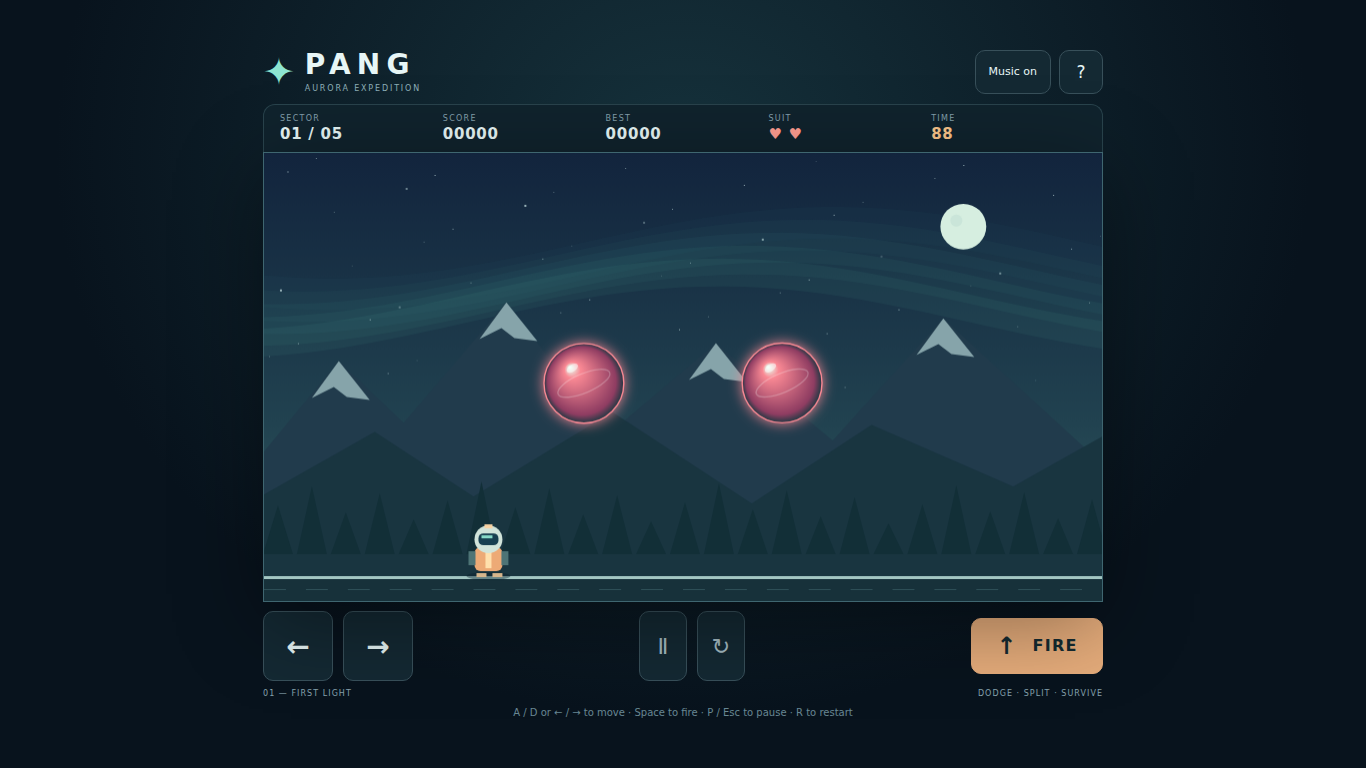
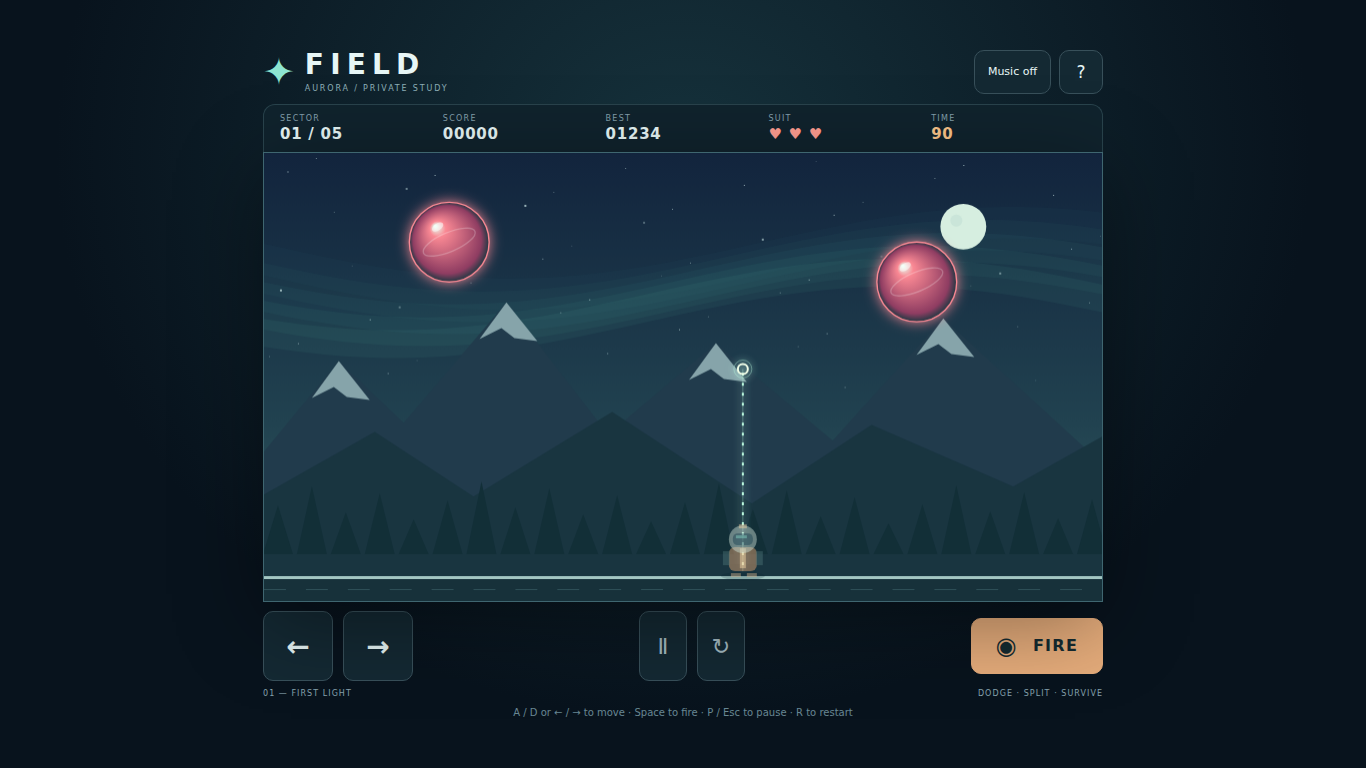
Retain aurora originals with pulse tether and isolated private verification

diff --git a/tests/browser/game.spec.js b/tests/browser/game.spec.js
@@ -1,9 +1,9 @@
 import {test,expect} from '@playwright/test';
 async function boot(page){await page.clock.install({time:new Date('2026-01-01T00:00:00Z')});await page.clock.pauseAt(new Date('2026-01-01T00:00:01Z'));await page.goto('/');}
 async function game(page,fn){return page.evaluate(async src=>{const {game}=await import('/src/app.js');return (new Function('g',src))(game);},fn);}
-for(const [width,height]of [[1920,1080],[1366,768],[768,1024],[390,844],[320,568],[844,390],[568,320],[480,320],[440,320]])test(`responsive DPR arena and accessible controls ${width}x${height}`,async({browser})=>{
- const context=await browser.newContext({viewport:{width,height},deviceScaleFactor:2});const page=await context.newPage();const errors=[];page.on('pageerror',e=>errors.push(e.message));page.on('console',m=>{if(m.type()==='error')errors.push(m.text());});page.on('requestfailed',r=>errors.push(r.url()));page.on('response',r=>{if(r.status()>=400)errors.push(`${r.status()} ${r.url()}`);});
- await page.goto('http://127.0.0.1:4173/');
+for(const [width,height]of [[1920,1080],[1366,768],[768,1024],[390,844],[320,568],[844,390],[568,320],[480,320],[440,320]])test(`responsive DPR arena and accessible controls ${width}x${height}`,async({browser,baseURL})=>{
+ const context=await browser.newContext({baseURL,viewport:{width,height},deviceScaleFactor:2});const page=await context.newPage();const errors=[];page.on('pageerror',e=>errors.push(e.message));page.on('console',m=>{if(m.type()==='error')errors.push(m.text());});page.on('requestfailed',r=>errors.push(r.url()));page.on('response',r=>{if(r.status()>=400)errors.push(`${r.status()} ${r.url()}`);});
+ await page.goto('/');
  const dimensions=await page.locator('canvas').evaluate(c=>({w:c.width,h:c.height,rect:c.getBoundingClientRect().toJSON(),dpr:devicePixelRatio,sw:document.documentElement.scrollWidth,sh:document.documentElement.scrollHeight}));
  expect(dimensions.w).toBe(Math.round(dimensions.rect.width*2));expect(dimensions.h).toBe(Math.round(dimensions.rect.height*2));expect(dimensions.sw).toBeLessThanOrEqual(width);expect(dimensions.sh).toBeLessThanOrEqual(height);
  expect(dimensions.rect.width/dimensions.rect.height).toBeCloseTo(840/450,2);
@@ -16,10 +16,10 @@ for(const [width,height]of [[1920,1080],[1366,768],[768,1024],[390,844],[320,568
  if(width===844){expect(boxes.left.x).toBeLessThan(width/2);expect(boxes.fire.x).toBeGreaterThan(width/2);expect(dimensions.rect.width).toBeGreaterThanOrEqual(520);expect(await page.evaluate(()=>['pause','restart'].every(id=>getComputedStyle(document.getElementById(id)).visibility==='visible'))).toBe(true);}
  await page.getByRole('button',{name:'Start expedition'}).click();await page.waitForTimeout(250);expect(errors).toEqual([]);await context.close();
 });
-for(const [width,height,expectedArenaWidth,expectedShellWidth]of [[390,844,370,370],[844,390,522.6666666667,824]])test(`fresh mobile load sizes the complete arena at ${width}x${height} before resize`,async({browser})=>{
-  const context=await browser.newContext({viewport:{width,height},deviceScaleFactor:2,hasTouch:true,isMobile:true});
+for(const [width,height,expectedArenaWidth,expectedShellWidth]of [[390,844,370,370],[844,390,522.6666666667,824]])test(`fresh mobile load sizes the complete arena at ${width}x${height} before resize`,async({browser,baseURL})=>{
+  const context=await browser.newContext({baseURL,viewport:{width,height},deviceScaleFactor:2,hasTouch:true,isMobile:true});
   const page=await context.newPage();
-  await page.goto('http://127.0.0.1:4173/');
+  await page.goto('/');
   const metrics=await page.evaluate(()=>({
     innerWidth,
     innerHeight,
@@ -64,7 +64,7 @@ test('pauses, resumes, restarts, shows instructions and pauses on visibility los
   await page.getByRole('button',{name:'Instructions',exact:true}).click();await expect(page.getByText(/Small spheres move faster/)).toBeVisible();
 });
 test('starts a playable canvas, keyboard movement and sustained fire',async({page})=>{
-  await boot(page); await expect(page.getByRole('heading',{name:'PANG',exact:true})).toBeVisible();
+  await boot(page); await expect(page.getByRole('heading',{name:'FIELD',exact:true})).toBeVisible();
   await page.getByRole('button',{name:'Start expedition'}).click();
   await page.keyboard.down('ArrowLeft');await page.keyboard.down('Space');await page.clock.runFor(500);
   await page.keyboard.up('ArrowLeft');await page.keyboard.up('Space');
@@ -75,11 +75,11 @@ test('starts a playable canvas, keyboard movement and sustained fire',async({pag
 for(const device of [
   {name:'desktop',viewport:{width:1366,height:768},hasTouch:false},
   {name:'mobile',viewport:{width:390,height:844},hasTouch:true},
-])test(`music volume activates and toggles at the high target on ${device.name}`,async({browser},testInfo)=>{
+])test(`music volume activates and toggles at the high target on ${device.name}`,async({browser,baseURL},testInfo)=>{
   testInfo.setTimeout(60_000);
-  const context=await browser.newContext({viewport:device.viewport,hasTouch:device.hasTouch,isMobile:device.hasTouch});
+  const context=await browser.newContext({baseURL,viewport:device.viewport,hasTouch:device.hasTouch,isMobile:device.hasTouch});
   const page=await context.newPage();
-  await page.goto('http://127.0.0.1:4173/');
+  await page.goto('/');
   const volume=()=>page.evaluate(async()=>{
     const {music}=await import('/src/app.js');
     const {MUSIC_MASTER_VOLUME}=await import('/src/music.js');
@@ -100,8 +100,8 @@ for(const device of [
 for(const device of [
   {name:'desktop',viewport:{width:1366,height:768},hasTouch:false},
   {name:'mobile',viewport:{width:390,height:844},hasTouch:true},
-])test(`game pause suspends music and resumes its same transport on ${device.name}`,async({browser})=>{
-  const context=await browser.newContext({viewport:device.viewport,hasTouch:device.hasTouch,isMobile:device.hasTouch});
+])test(`game pause suspends music and resumes its same transport on ${device.name}`,async({browser,baseURL})=>{
+  const context=await browser.newContext({baseURL,viewport:device.viewport,hasTouch:device.hasTouch,isMobile:device.hasTouch});
   const page=await context.newPage();
   await page.addInitScript(()=>{
     class Param{constructor(value=0){this.value=value;}setValueAtTime(value){this.value=value;}linearRampToValueAtTime(value){this.value=value;}exponentialRampToValueAtTime(value){this.value=value;}cancelScheduledValues(){}}

diff --git a/index.html b/index.html
@@ -4,20 +4,20 @@
   <meta charset="UTF-8">
   <meta name="viewport" content="width=device-width, initial-scale=1, viewport-fit=cover">
   <meta name="theme-color" content="#091721">
-  <meta name="description" content="Pang: Aurora Expedition. An original arcade bubble-splitting expedition for keyboard and touch.">
-  <title>Pang · Aurora Expedition</title>
+  <meta name="description" content="Private aurora field study. An arcade sphere-splitting expedition for keyboard and touch.">
+  <title>Aurora Field Study · Private prototype</title>
   <link rel="icon" href="data:,">
   <link rel="stylesheet" href="./style.css">
 </head>
 <body>
   <main class="shell">
     <header>
-      <div class="brand"><span class="brand-mark">✦</span><div><h1>PANG</h1><p>AURORA EXPEDITION</p></div></div>
+      <div class="brand"><span class="brand-mark">✦</span><div><h1>FIELD</h1><p>AURORA / PRIVATE STUDY</p></div></div>
       <div class="tools"><button id="music" aria-label="Turn music off" aria-pressed="true">Music on</button><button id="help" aria-label="Instructions">?</button></div>
     </header>
     <section class="hud" aria-label="Expedition status"><div><span>SECTOR</span><strong id="sector">01 / 05</strong></div><div><span>SCORE</span><strong id="score">00000</strong></div><div><span>BEST</span><strong id="best">00000</strong></div><div><span>SUIT</span><strong id="lives" aria-label="3 lives">♥ ♥ ♥</strong></div><div><span>TIME</span><strong id="timer">90</strong></div></section>
-    <section class="arena" aria-label="Game arena"><canvas aria-label="Pang game: dodge spheres and fire upward harpoons" width="840" height="450"></canvas><div id="overlay" class="overlay"><div class="panel"><span id="eyebrow">ARCADE / EXPEDITION 001</span><h2 id="title">Chase the aurora.</h2><p id="message">Split the spheres. Keep your footing.<br>Five sectors. Three lives. One expedition.</p><button id="primary">Start expedition</button><span id="hint">← → MOVE &nbsp; · &nbsp; SPACE FIRE</span></div></div></section>
-    <section class="controls" aria-label="Game controls"><div class="movement"><button id="left" aria-label="Move left">←</button><button id="right" aria-label="Move right">→</button></div><div class="center-controls"><button id="pause" aria-label="Pause game">Ⅱ</button><button id="restart" aria-label="Restart game">↻</button></div><button id="fire" aria-label="Fire harpoon"><span>↑</span> FIRE</button></section>
+    <section class="arena" aria-label="Game arena"><canvas aria-label="Aurora field study: dodge spheres and fire upward pulses" width="840" height="450"></canvas><div id="overlay" class="overlay"><div class="panel"><span id="eyebrow">ARCADE / EXPEDITION 001</span><h2 id="title">Chase the aurora.</h2><p id="message">Split the spheres. Keep your footing.<br>Five sectors. Three lives. One expedition.</p><button id="primary">Start expedition</button><span id="hint">← → MOVE &nbsp; · &nbsp; SPACE FIRE</span></div></div></section>
+    <section class="controls" aria-label="Game controls"><div class="movement"><button id="left" aria-label="Move left">←</button><button id="right" aria-label="Move right">→</button></div><div class="center-controls"><button id="pause" aria-label="Pause game">Ⅱ</button><button id="restart" aria-label="Restart game">↻</button></div><button id="fire" aria-label="Fire pulse"><span>◉</span> FIRE</button></section>
     <footer><span id="level-name">01 — FIRST LIGHT</span><span>DODGE · SPLIT · SURVIVE</span></footer>
     <p class="keyboard-help">A / D or ← / → to move · Space to fire · P / Esc to pause · R to restart</p>
   </main>

diff --git a/tests/browser/preparation.spec.js b/tests/browser/preparation.spec.js
@@ -1,0 +1,47 @@
+import {test,expect} from '@playwright/test';
+import {mkdirSync,readFileSync} from 'node:fs';
+const evidence='/root/arcade-migration-audit/preparation/orb-screenshots';
+mkdirSync(evidence,{recursive:true});
+async function boot(page){
+  await page.clock.install({time:new Date('2026-01-01T00:00:00Z')});
+  await page.clock.pauseAt(new Date('2026-01-01T00:00:01Z'));
+  await page.addInitScript(()=>{localStorage.setItem('pang.highScore','1234');localStorage.setItem('pang.music','off');});
+  await page.goto('/');
+  // The app synchronizes HUD/first paint in RAF; a paused clock must deliver that frame.
+  await page.clock.runFor(16);
+  await expect(page).toHaveTitle(/Aurora Field Study/);
+  // Exact source readback prevents false passes against any old/public checkout server.
+  expect(await (await page.request.get('/src/render.js')).text()).toBe(readFileSync(new URL('../../src/render.js',import.meta.url),'utf8'));
+}
+for(const [width,height] of [[1920,1080],[1366,768],[768,1024],[390,844],[320,568],[844,390]]){
+  test(`private pulse scene, legacy data and orientation ${width}x${height}`,async({page})=>{
+    await page.setViewportSize({width,height});await boot(page);
+    await expect(page.locator('#best')).toHaveText('01234');
+    await expect(page.locator('#music')).toHaveText('Music off');
+    if(width===1366)await page.screenshot({path:`${evidence}/ready.png`});
+    await page.getByRole('button',{name:'Start expedition'}).click();
+    await page.evaluate(async()=>{const {game,input}=await import('/src/app.js');game.invulnerable=10;input.fire=true;});
+    await page.clock.runFor(250);
+    await page.evaluate(async()=>{(await import('/src/app.js')).input.fire=false;});
+    await page.screenshot({path:`${evidence}/${width}x${height}-playing.png`});
+    const before=await page.evaluate(async()=>JSON.stringify((await import('/src/app.js')).game));
+    await page.setViewportSize({width:height,height:width});
+    await expect.poll(()=>page.locator('canvas').evaluate(el=>{const r=el.getBoundingClientRect();return Math.abs(r.width/r.height-840/450)<.02;})).toBe(true);
+    expect(await page.evaluate(async()=>JSON.stringify((await import('/src/app.js')).game))).toBe(before);
+    await page.getByRole('button',{name:'Restart game'}).click();
+    expect(await page.evaluate(async()=>{const {game}=await import('/src/app.js');return {level:game.level,score:game.score,lives:game.lives,state:game.state};})).toEqual({level:0,score:0,lives:3,state:'playing'});
+  });
+}
+test('inspect all five retained original sectors with the real renderer and RAF loop',async({page})=>{
+  await page.setViewportSize({width:1366,height:768});await boot(page);
+  await page.getByRole('button',{name:'Start expedition'}).click();
+  const names=await page.evaluate(async()=>(await import('/src/engine.js')).LEVELS.map(l=>l.name));
+  expect(names).toEqual(['First light','The crossing','Twin peaks','Skyline','Aurora']);
+  for(let level=0;level<names.length;level++){
+    await page.evaluate(async index=>{const {game,input}=await import('/src/app.js');game.loadLevel(index);game.shots=[];game.cooldown=0;game.invulnerable=10;input.fire=true;},level);
+    await page.clock.runFor(250);
+    await page.evaluate(async()=>{(await import('/src/app.js')).input.fire=false;});
+    await page.screenshot({path:`${evidence}/sector-${level+1}.png`});
+    expect(await page.evaluate(async()=>(await import('/src/app.js')).game.state)).toBe('playing');
+  }
+});

diff --git a/src/render.js b/src/render.js
@@ -13,7 +13,14 @@ export function draw(ctx,g,time=0){
   c.fillStyle='#122f37';for(let i=0;i<28;i++){const x=i*34-20,h=25+(i*19)%45;c.beginPath();c.moveTo(x,398-h);c.lineTo(x-15,403);c.lineTo(x+15,403);c.fill();}
   c.fillStyle='#a4c7c3';c.fillRect(0,FLOOR,840,3);c.fillStyle='#17313a';c.fillRect(0,FLOOR+3,840,22);c.fillStyle='#31515a';for(let x=0;x<840;x+=42)c.fillRect(x,FLOOR+13,22,1);
   for(const p of g.platforms||[]){c.fillStyle='#102b37';c.fillRect(p.x,p.y,p.w,p.h);c.fillStyle='#b4e5d6';c.fillRect(p.x,p.y,p.w,3);c.fillStyle='#4d8f8b';c.fillRect(p.x,p.y+3,p.w,4);for(let x=p.x+10;x<p.x+p.w;x+=25){c.fillStyle='#88bfb3';c.fillRect(x,p.y+10,6,2);}}
-  for(const s of g.shots){c.shadowBlur=10;c.shadowColor='#c1ffe6';c.strokeStyle='#bcf9df';c.lineWidth=2;c.beginPath();c.moveTo(s.x,s.bottom);c.lineTo(s.x,s.y);c.stroke();c.fillStyle='#f4ffe9';c.beginPath();c.moveTo(s.x,s.y-8);c.lineTo(s.x-5,s.y+3);c.lineTo(s.x+5,s.y+3);c.fill();c.shadowBlur=0;}
+  // Ring-headed pulse with a travelling light tether: render-only, unchanged shot geometry.
+  for(const s of g.shots){
+    c.shadowBlur=10;c.shadowColor='#c1ffe6';c.strokeStyle='#bcf9df55';c.lineWidth=1;
+    c.beginPath();c.moveTo(s.x,s.bottom);c.lineTo(s.x,s.y);c.stroke();
+    c.setLineDash([3,7]);c.lineDashOffset=-time*24;c.strokeStyle='#bcf9df';c.lineWidth=2;c.stroke();c.setLineDash([]);c.lineDashOffset=0;
+    c.strokeStyle='#f4ffe9';c.beginPath();c.arc(s.x,s.y,5,0,Math.PI*2);c.stroke();
+    c.strokeStyle='#bcf9df66';c.lineWidth=1;c.beginPath();c.arc(s.x,s.y,9,0,Math.PI*2);c.stroke();c.shadowBlur=0;
+  }
   for(const b of g.balls||[]){const col=colors[b.size];c.shadowColor=col;c.shadowBlur=14;const grad=c.createRadialGradient(b.x-b.r*.35,b.y-b.r*.4,1,b.x,b.y,b.r);grad.addColorStop(0,'#e5fff0');grad.addColorStop(.18,col);grad.addColorStop(.85,b.size===2?'#8f3d62':b.size===1?'#987047':'#387e7c');grad.addColorStop(1,'#203943');c.fillStyle=grad;c.beginPath();c.arc(b.x,b.y,b.r,0,Math.PI*2);c.fill();c.shadowBlur=0;c.strokeStyle=col;c.lineWidth=1.4;c.stroke();c.strokeStyle='#ffffff3b';c.beginPath();c.ellipse(b.x,b.y,b.r*.7,b.r*.24,-.4,0,Math.PI*2);c.stroke();c.fillStyle='#ffffff85';c.beginPath();c.ellipse(b.x-b.r*.29,b.y-b.r*.38,b.r*.16,b.r*.09,-.6,0,7);c.fill();}
   const p=g.player;c.save();if(g.invulnerable>0 && Math.floor(time*12)%2)c.globalAlpha=.45;c.translate(p.x,405);
   c.fillStyle='#071f2a66';c.beginPath();c.ellipse(0,20,22,4,0,0,7);c.fill();c.fillStyle='#15303b';c.fillRect(-12,8,9,12);c.fillRect(4,8,9,12);c.fillStyle='#d7b68d';c.fillRect(-12,17,10,4);c.fillRect(4,17,10,4);c.fillStyle='#edaa76';c.beginPath();c.roundRect(-14,-9,28,24,6);c.fill();c.fillStyle='#ffe0ad';c.fillRect(-3,-8,6,20);c.fillStyle='#4e7476';c.fillRect(-20,-5,7,14);c.fillRect(13,-5,7,14);c.fillStyle='#d1e4da';c.beginPath();c.arc(0,-17,14,0,7);c.fill();c.fillStyle='#173f50';c.beginPath();c.roundRect(-10,-23,20,12,5);c.fill();c.fillStyle='#89dcca';c.fillRect(-7,-21,11,3);c.fillStyle='#f9d4a4';c.fillRect(-4,-32,8,4);c.restore();

diff --git a/tests/unit/presentation.test.js b/tests/unit/presentation.test.js
@@ -1,0 +1,21 @@
+import {it, expect} from 'vitest';
+import {readFileSync} from 'node:fs';
+import {draw} from '../../src/render.js';
+it('renders a circular pulse head instead of a pointed harpoon while preserving model data',()=>{
+  const calls=[];
+  const gradient={addColorStop(){}};
+  const ctx=new Proxy({}, {get(target,key){
+    if(key==='createLinearGradient'||key==='createRadialGradient')return ()=>gradient;
+    return (...args)=>calls.push([key,...args]);
+  },set(target,key,value){target[key]=value;return true;}});
+  const game={platforms:[],shots:[{x:321,y:123,bottom:400}],balls:[],player:{x:420},particles:[],invulnerable:0};
+  const before=JSON.stringify(game);draw(ctx,game,0);
+  expect(JSON.stringify(game)).toBe(before);
+  expect(calls.some(([name,x,y,r])=>name==='arc'&&x===321&&y===123&&r===5)).toBe(true);
+  expect(calls.some(([name,x,y])=>name==='lineTo'&&x===316&&y===126)).toBe(false);
+});
+it('uses only a neutral private title in public-facing markup',()=>{
+ const html=readFileSync(new URL('../../index.html',import.meta.url),'utf8');
+ expect(html).toContain('<title>Aurora Field Study');
+ expect(html).not.toMatch(/Pang|PANG|Orb Splitter/);
+});

diff --git a/src/app.js b/src/app.js
@@ -108,7 +108,7 @@ $('restart').addEventListener('click',()=>{clearInput();game.restart();sync();})
 $('help').addEventListener('click',()=>{
   game.pause();clearInput();sync();
   $('title').textContent='Field guide';
-  $('message').textContent='Move with A / D or arrows. Hold Space or FIRE to shoot. Large spheres split twice. Small spheres move faster. Avoid all spheres. Platforms block harpoons. Clear five sectors before time runs out. P / Esc pauses; R restarts. Touch: hold a direction and FIRE together.';
+  $('message').textContent='Move with A / D or arrows. Hold Space or FIRE to shoot. Large spheres split twice. Small spheres move faster. Avoid all spheres. Platforms block pulses. Clear five sectors before time runs out. P / Esc pauses; R restarts. Touch: hold a direction and FIRE together.';
 });
 $('primary').addEventListener('click',()=>{
   clearInput();

diff --git a/playwright.config.js b/playwright.config.js
@@ -1,2 +1,7 @@
 import {defineConfig} from '@playwright/test';
-export default defineConfig({testDir:'tests/browser', timeout:30000, fullyParallel:false, workers:1, use:{baseURL:'http://127.0.0.1:4173', headless:true}, webServer:{command:'npm run dev',url:'http://127.0.0.1:4173/src/engine.js',reuseExistingServer:!process.env.CI}});
+// Private worktree only. Never reuse the original game server on 4173.
+export default defineConfig({
+  testDir:'tests/browser', timeout:60000, fullyParallel:false, workers:1,
+  use:{baseURL:'http://127.0.0.1:4193',headless:true},
+  webServer:{command:'npm run dev',env:{PORT:'4193'},url:'http://127.0.0.1:4193/src/render.js',reuseExistingServer:false},
+});

diff --git a/tests/unit/private-server.test.js b/tests/unit/private-server.test.js
@@ -1,0 +1,10 @@
+import {it, expect} from 'vitest';
+import {readFileSync} from 'node:fs';
+import config from '../../playwright.config.js';
+it('serves this private worktree on isolated loopback port without server reuse',()=>{
+  expect(config.use.baseURL).toBe('http://127.0.0.1:4193');
+  expect(config.webServer.env.PORT).toBe('4193');
+  expect(config.webServer.reuseExistingServer).toBe(false);
+  expect(readFileSync(new URL('../../server.mjs',import.meta.url),'utf8')).toContain(".listen(port,'127.0.0.1'");
+  expect(readFileSync(new URL('../browser/game.spec.js',import.meta.url),'utf8')).not.toContain("page.goto('http://127.0.0.1:4173/");
+});

diff --git a/README.md b/README.md
@@ -1,85 +1,42 @@
-# Pang: Aurora Expedition
+# Aurora Field Study — private preparation
 
-**Play now:** https://nateofspades.github.io/pang_game/
+This is the existing game, edited in place on a private local preparation branch, not recreated. “Aurora Field Study” / “FIELD” are neutral internal working labels, not a cleared or published brand. No new public deployment, repository rename or push is authorized by this checkout.
 
-![Pang active gameplay on desktop](assets/screenshots/gameplay.png)
+![Private local gameplay](assets/screenshots/gameplay.png)
 
-A fast Canvas arcade expedition: split bouncing spheres with upward harpoons, dodge the fragments, and clear five aurora-lit sectors before time expires.
+## Retained original design and focused changes
 
-## Features
+The custom parka/visor explorer, aurora ribbons, snowy mountains/pines, frozen observation base, orbit-marked spheres, particle palette and all five source-defined platform layouts are retained. The existing screenshot and Canvas source were inspected before choosing a narrow visual change: the pointed upward harpoon head becomes a circular light pulse with a travelling dashed tether. This changes drawing only; the shot still follows the exact existing collision line, speed, cooldown and platform blocking rules. No new art/audio dependency or mechanics system was introduced.
 
-- Five increasingly difficult sectors with platforms, timers, particles, scoring, three lives, and temporary invulnerability.
-- Large spheres split into faster medium and small spheres; the smallest disappear.
-- Responsive high-DPI Canvas that always preserves the complete 840:450 arena without cropping or distortion.
-- Persistent local high score and music preference.
-- Start, pause/resume, restart, game-over, level-clear, and victory states without resetting the music transport.
-- Large touch controls with independent pointer tracking for simultaneous movement and firing.
+The five retained sectors are First light, The crossing, Twin peaks, Skyline and Aurora. Large spheres split twice; small spheres disappear. Existing score, three lives, timers, invulnerability, pause, game-over, sector-clear, victory and restart behavior are unchanged. `src/engine.js`, `src/music.js`, `src/layout.js`, `src/storage.js` and `style.css` remain byte-identical to baseline `2e00cd379887a1f180d459b5724a3a97e8d50551`.
 
-## Controls
+## Controls and continuity
 
-Clear every sphere before the timer expires. Avoid touching spheres; a hit costs one life and briefly grants invulnerability. Platforms stop harpoons and redirect spheres.
+- A/D or left/right arrows move; hold Space or FIRE to emit upward pulses.
+- Touch: hold a direction and FIRE together with separate fingers.
+- P / Esc or the pause control pauses/resumes; R or restart starts a fresh run.
+- Music on/off restores or mutes the same transport. Explicit gameplay pause suspends audio; resume continues the same context/position. Restart, menus, sector changes and resizing do not replace the transport.
 
-### Desktop keyboard
+Legacy `pang.highScore` and `pang.music` keys are intentionally preserved, not used as new branding. Existing data survives same-origin reloads. A different deployment origin does not automatically inherit localStorage; cross-origin transfer needs a separate consented, tested design.
 
-- Move: **A / D** or **← / →**
-- Fire: hold **Space**
-- Pause/resume: **P** or **Esc**
-- Restart: **R** or the restart button
+## Music and chain of title
 
-### Mobile and touch
+“Polar Circuit” and its playback implementation are unchanged. The existing [music provenance](docs/music-provenance.md) records the author's original-composition/repository-owned assertions; they are not independent musicological or ownership clearance. That document explicitly asserts no separate open-source license. No general code/art repository license was found. This is a chain-of-title/documentation gap to resolve with the requesting owner, **not** a finding that the requester lacks rights in their own work. No license has been invented or added.
 
-- Hold the large **←** or **→** thumb target with one finger.
-- Hold **FIRE** with another finger to move and shoot at the same time.
-- Pause and restart use the two smaller center buttons in portrait.
-- In short landscape, movement remains on the left, FIRE on the right, and music/help remain centered and reachable.
+## Local development and private verification
 
-Touch actions are captured by the controls to prevent page scrolling while playing. Orientation changes preserve the current game and music state.
-
-## Music
-
-**Polar Circuit** is an original fast-paced retro-arcade instrumental composed programmatically for this project. Its 64-step melody, bass line, pulse percussion, and arrangement are generated in `src/music.js` using Web Audio oscillators; it contains no samples, recordings, third-party music, or adapted melodies.
-
-Music begins only after a browser interaction. **Music on/off** changes gain without rebuilding or rewinding the transport, and the preference is saved in localStorage. The single music engine continues across menus, pause, restart, game over, sector changes, resize, and orientation changes; background visibility interruptions suspend and resume the same transport. Gameplay intentionally has no scoring, collision, clear, or button sound effects.
-
-See [music provenance](docs/music-provenance.md) for the authorship and licensing record.
-
-## Local setup
-
-Requires Node.js 22.22 or newer. There are no runtime packages or build step.
+This static project has no production build step or runtime packages. Node.js 22.22 or newer is required by the existing project.
 
 ```sh
 npm ci
-npx playwright install chromium
-npm run dev
-```
-
-Open http://127.0.0.1:4173.
-
-## Tests
-
-```sh
+PORT=4193 npm run dev
 npm test
 npm run test:e2e
 npm run test:all
 ```
 
-Vitest covers game rules, physics, persistence, the music transport/composition helpers, and responsive layout calculations. Playwright uses one browser worker and covers keyboard controls, real two-finger touch, music lifecycle and preference, visibility interruption, denied storage/audio, game states, console/network failures, DPR rendering, overflow, target sizing, and these required viewports:
+Private Playwright uses `http://127.0.0.1:4193`, explicit `PORT=4193`, one worker and **no server reuse**. The original server on 4173 must remain untouched. Existing manual browser contexts explicitly receive baseURL and tests navigate relative to it; an added test reads the exact served renderer back and compares it with this worktree's file, preventing false verification of an old checkout. All preparation test/server/browser execution must hold `/root/arcade-migration-audit/preparation/test.lock` with `flock`.
 
-- 1920×1080 desktop
-- 1366×768 laptop
-- 768×1024 tablet portrait
-- 390×844 mobile portrait
-- 320×568 small mobile portrait
-- 844×390 mobile landscape
+Existing coverage includes real simultaneous two-finger touch, keyboard/fire/restart, Web Audio gain and lifecycle, preference persistence, denied storage/audio, DPR/layout and nine sizes. Added preparation coverage checks neutral presentation, actual pulse drawing/render purity, isolated server configuration, legacy records, six orientation/state cases and captures of all five sectors. Required viewports: 1920×1080, 1366×768, 768×1024, 390×844, 320×568 and 844×390. Screenshots use the real application/renderer with a paused browser clock and explicitly seeded level/player data, not fabricated images.
 
-GitHub Actions runs both Vitest and Playwright for pushes to `main` and pull requests.
-
-## Technology
-
-HTML5, CSS, vanilla ES modules, Canvas 2D, Web Audio, localStorage, Vitest, Playwright, and GitHub Actions/Pages.
-
-## Verification
-
-Sequential test-first evidence from the original game foundation is in [docs/tdd-log.md](docs/tdd-log.md). Independent corner-speed regression evidence is in [docs/tdd-review.md](docs/tdd-review.md). The DOM-independent engine remains exported for deterministic fixtures; there is no cheat UI.
-
-Future changes follow [AGENTS.md](AGENTS.md). No empty commits or rewritten history.
+Exact execution outcomes, commands, local commit and unresolved findings are in `/root/arcade-migration-audit/preparation/orb-results.json` and `orb-report.md`. This test inventory is not itself a pass claim. See [private migration notes](docs/private-migration.md) for proposed-brand separation and release gates.

diff --git a/docs/private-migration.md b/docs/private-migration.md
@@ -1,0 +1,25 @@
+# Private migration notes — aurora field study
+
+## Preserve the existing design, do not recreate the game
+
+Source and the existing gameplay screenshot show a custom snow-parka/visor explorer, layered aurora, mountain/pine observation base and shaded orbit-marked spheres. Retain these drawings and the five existing source-defined levels rather than replacing already-distinct original work. The narrow projectile edit removes the pointed arrowhead and adds concentric pulse rings plus a travelling light tether. The authoritative collision line remains the existing shot data; rings/glow are decorative. No physics, player, split, timer, scoring, input or restart code was rewritten. The only application-code wording change is field-guide “harpoons” → “pulses.”
+
+## Verification workflow and isolation
+
+Presentation tests were written before implementation and failed for the missing pulse head and old commercial title (`orb-red.log`). The renderer test records real Canvas calls and checks model purity, not merely a comment or color claim. Full Vitest and existing Playwright must run under the shared `flock /root/arcade-migration-audit/preparation/test.lock`. Long lock waits use managed background commands with completion notifications; never bypass the lock or start another browser daemon.
+
+Original port 4173 was confirmed occupied before private browser testing. Private configuration binds the existing loopback-only server on 4193, disables reuse, and explicitly passes baseURL to manual browser contexts before relative navigation. A served-source readback compares `/src/render.js` with the exact worktree file. This prevents an original/public-server false pass. Private test timeout is 60 seconds for the shared runner, not a change to gameplay time. Never stop or reuse the original server. Test output and reviewed screenshots belong under the audit preparation directory; CI/prefix/deployment verification is separate and is not claimed here.
+
+All five retained levels are First light, The crossing, Twin peaks, Skyline and Aurora. New screenshots render them through the real application/RAF loop using a paused test clock and seeded state; six viewport cases also exercise storage, restart and orientation. Existing browser cases retain the real two-finger touch, real Web Audio gain/transport and other lifecycle checks. Exact outcomes and counts are recorded only after execution in `orb-results.json` / `orb-report.md`.
+
+## Compatibility and permissions
+
+Keep `pang.highScore` and `pang.music`; these are compatibility identifiers, not new public branding. Same-origin storage is shared across paths. No automatic cross-origin import/export is implemented. Engine, music, storage, layout and stylesheet are unchanged from the recorded baseline.
+
+No tracked general code/art license was found. Establish the requesting owner's chain of title, contributor/agent-assisted provenance and desired distribution terms; absence of an open license does not establish lack of rights in the requester's own original work. The music provenance document records author assertions and explicitly declines a separate open-source grant. Do not transform those statements into a license or independently verified originality conclusion.
+
+## Proposed future brand — not activated
+
+**Orb Splitter** is a proposed future name only, confined to private planning. It is not a name-availability, trademark, domain or legal-clearance finding, and no runtime/public rename uses it here. Current runtime title is the neutral Aurora Field Study / FIELD. Final brand, slug, metadata, icons and canonical URLs require a separate approved decision.
+
+Passing tests is not permission to deploy. Total audiovisual-expression comparison, final name review, chain of title, musicological comparison where warranted, dependency notices and the actual distribution artifact remain separate release gates. Public/main checkouts, original live server, remotes and GitHub state are outside this preparation. No push, merge, repository creation or deployment is authorized.

diff --git a/docs/music-provenance.md b/docs/music-provenance.md
@@ -12,3 +12,7 @@
 - **Rights status:** original repository-owned work; no third-party music license or attribution is required. No separate open-source license is asserted by this provenance note.
 
 The composition uses a custom 64-step arrangement at 172 BPM. It does not download audio at runtime and does not incorporate stock loops, sample packs, copyrighted game music, or generative-service output.
+
+## Private preparation scope note
+
+The statements above are the repository's historical authorship/provenance assertions, not an independent musicological comparison, ownership determination or general code/art license. This preparation leaves `src/music.js` byte-identical to the original baseline. No separate open-source grant is created here. Missing general repository licensing is a chain-of-title/documentation gap to resolve with the requesting owner, not a finding that they lack rights in their own original work. Current runtime uses the neutral Aurora Field Study working title; the historical “Created for” label is retained as provenance, not activated branding.
